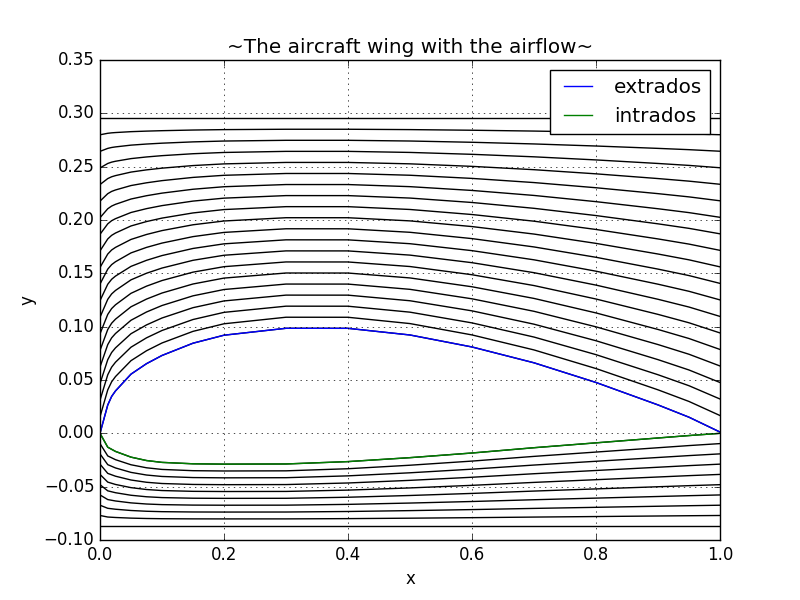
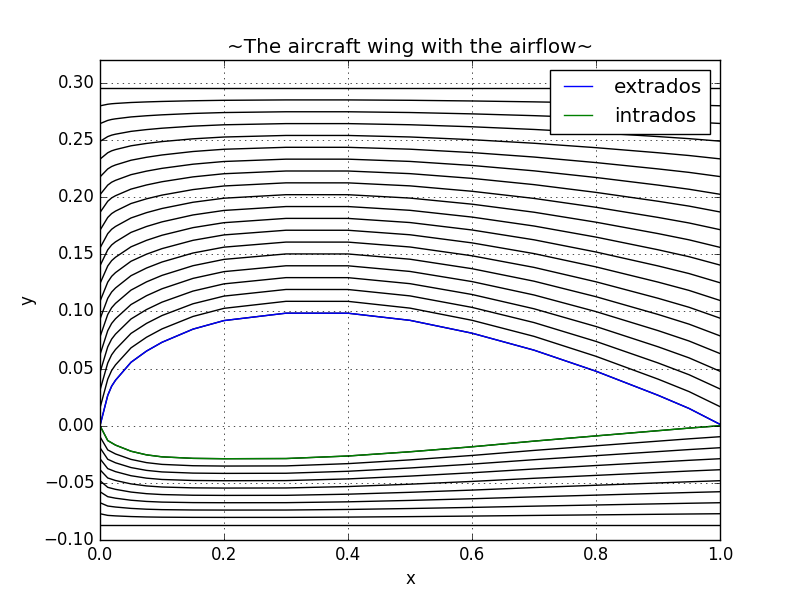
airflowpng

Changed region(s): [[0.0625, 0.09, 0.9062, 0.9]]

diff --git a/pressure_map.py b/pressure_map.py
@@ -75,7 +75,7 @@ def airflow():
     plt.grid(True)
     plt.title("~The aircraft wing with the airflow~")
     plt.legend()
-    plt.ylim((-0.1,0.35))
+    plt.ylim((-0.1,0.32))
     plt.show()
 
 def pressure_map():
